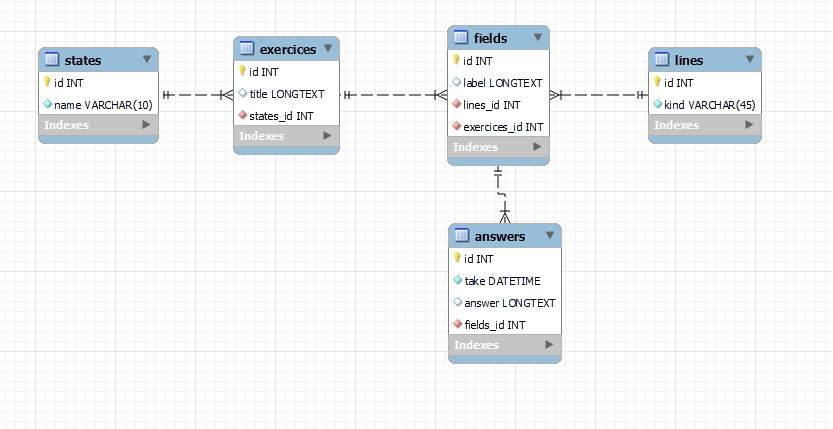
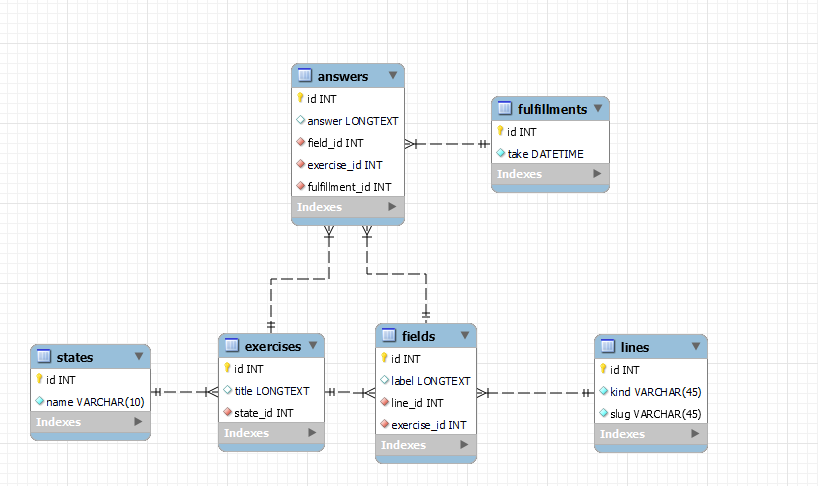
Update DB add table fulfillment

diff --git a/app/Http/Controllers/AnswerController.php b/app/Http/Controllers/AnswerController.php
@@ -8,6 +8,7 @@ use Psr\Http\Message\ResponseInterface as Response;
 use App\Models\Exercise;
 use App\Models\Answer;
 use App\Models\Field;
+use App\Models\Fulfillment;
 
 class AnswerController
 {
@@ -59,16 +60,18 @@ class AnswerController
 
     public function edit(View $view,$id): Response
     {
+
+        $filfilment = Fulfillment::make(['take'=>date('Y-m-d H:i:s')])->create();
         $ids = [];
         foreach ($_POST as $key=>$value){
-           array_push($ids, Answer::make(['answer'=>$value,'field_id'=>$key,'exercise_id'=>$id])->create());
+           array_push($ids, Answer::make(['answer'=>$value,'field_id'=>$key,'exercise_id'=>$id, 'fulfillment_id'=>$filfilment])
+               ->create());
         }
         $inputData = $_REQUEST;
         $exercise = Exercise::find($id);
         $title = $exercise->title;
         $color = 'purple';
-        $new = true;
-        return $view('answers.edit',compact('title','color', 'exercise', 'inputData', 'ids', 'new'));
+        return $view('answers.edit',compact('title','color', 'exercise', 'inputData', 'ids', 'filfilment'));
     }
 
     public function update(View $view,$id): Response

diff --git a/app/Models/Answer.php b/app/Models/Answer.php
@@ -9,10 +9,10 @@ class Answer extends Model
     static protected string $table = "answers";
     protected string $primaryKey = "id";
     public int $id;
-    public string $take;
     public string $answer;
     public int $field_id;
     public int $exercise_id;
+    public string $fulfillment_id;
 
     public function result()
     {
@@ -20,6 +20,7 @@ class Answer extends Model
                 INNER JOIN `fields` on field_id = fields.id
                 INNER JOIN `exercises` on `answers`.exercise_id = exercises.id
                 INNER JOIN `lines` on line_id = `lines`.id
+                INNER join `fulfillments` on fulfillment_id = `fulfillments`.id
                 where take = :take";
         $connector = DB::getInstance();
         return $connector->selectMany($query, ["take" => $this->take], Answer::class);

diff --git a/app/Models/Fulfillment.php b/app/Models/Fulfillment.php
@@ -1,0 +1,12 @@
+<?php
+namespace App\Models;
+use App\Models;
+use filu\maw_orm\Model;
+
+class Fulfillment extends Model
+{
+    static protected string $table = "fulfillments";
+    protected string $primaryKey = "id";
+    public int $id;
+    public string $take;
+}

diff --git a/resources/views/answers/edit.blade.php b/resources/views/answers/edit.blade.php
@@ -1,7 +1,7 @@
 @extends('layouts.app')
 
 @section('content')
-
+{{dd($exercise->fields()[0] )}}
     <div class="flex-1 px-2">
         <div class="pb-8 text-gray-600 ">
             <h1 class="text-5xl pb-4">Your take</h1>
